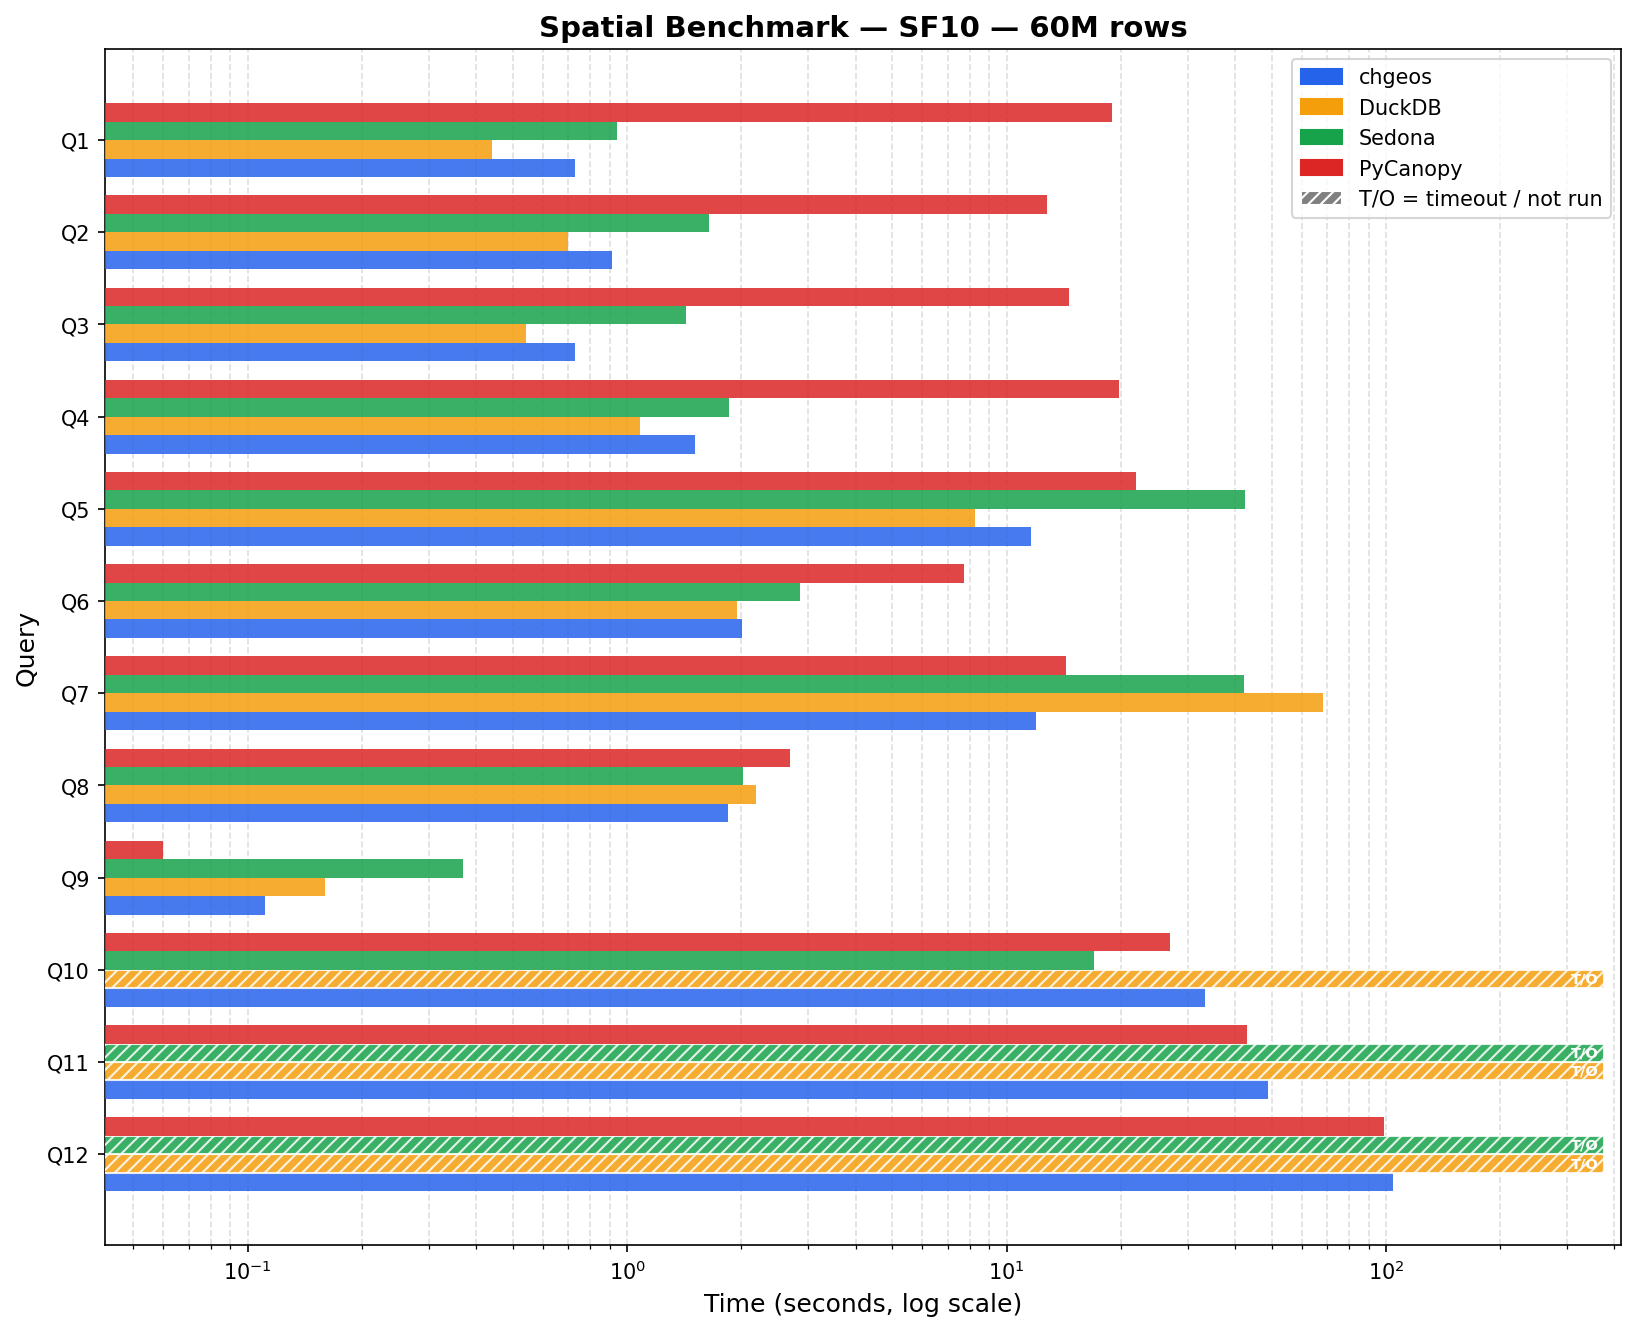
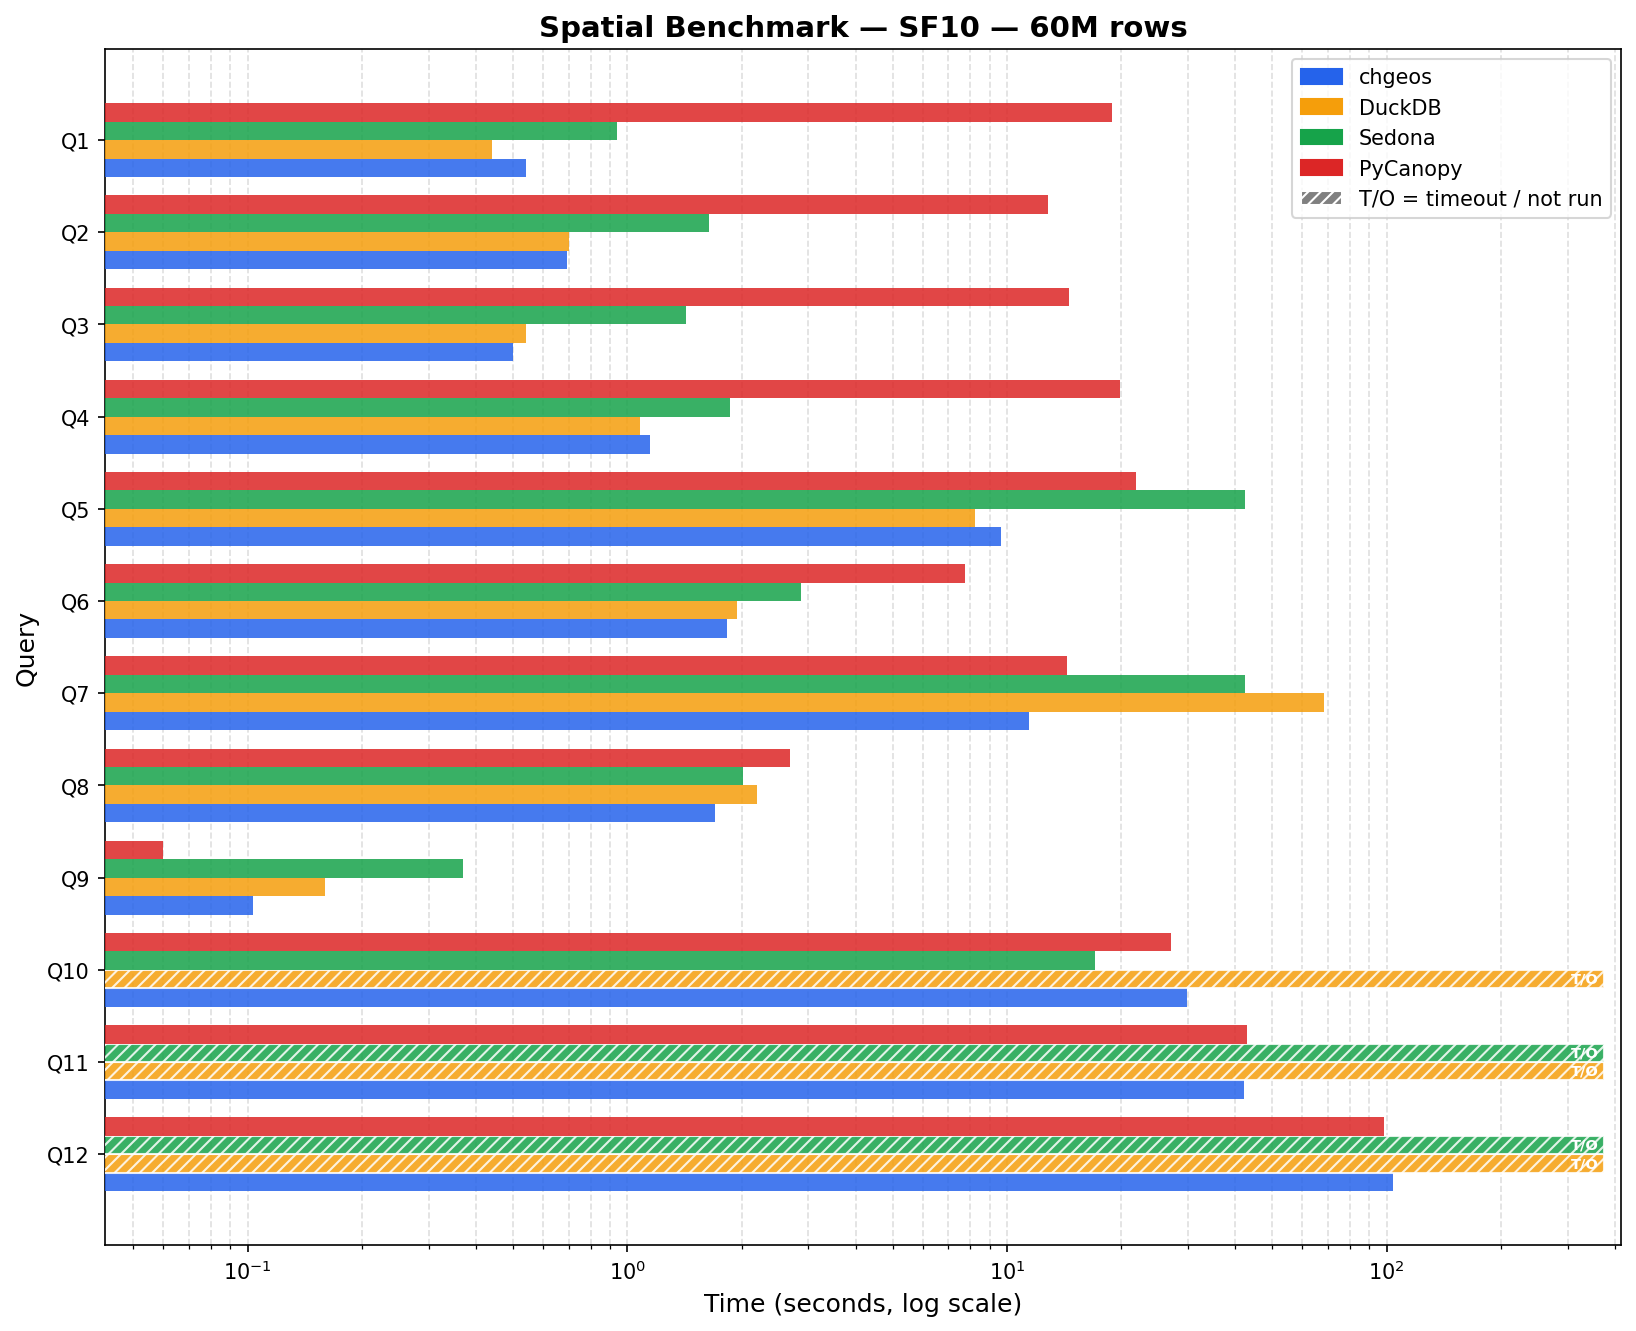
Update SF10 benchmark column with quiet-box re-measurement
The previous SF10 numbers were taken on a loaded machine and carried
+20-25% of Parquet-I/O noise on the small queries. This run is clean:
Q5 11.609 -> 9.625 s, Q7 11.992 -> 11.403 s, Q10 33.376 -> 29.784 s,
Q11 48.888 -> 42.129 s, Q12 104.282 -> 103.830 s.

Winners recomputed against the 5% tie band. Q3 and Q6 flip to chgeos,
Q2 and Q11 become ties, so the tally goes from chgeos 2 / DuckDB 5 /
Sedona 1 / PyCanopy 3 / ties 1 to chgeos 4 / DuckDB 3 / Sedona 1 /
PyCanopy 2 / ties 2. The caveat on sub-2-second SF10 rows stays -- the
same query moved 0.540 to 0.728 s across runs on one machine the same
day, and that is wider than most of the margins between engines there.

The Q10 +12% flagged in the prior commit was run-to-run width, not a
regression: 27.966-31.389 s here against a 27.314 s May baseline.

diff --git a/BENCHMARK.md b/BENCHMARK.md
@@ -42,24 +42,24 @@ Apache Sedona (SedonaDB) and PyCanopy on the spatial benchmark suite.
 
 | Query | Description                        | chgeos    | DuckDB   | Sedona   | PyCanopy | Winner   |
 |-------|------------------------------------|-----------|----------|----------|----------|----------|
-| Q1    | Point-in-radius filter             | 0.728 s   | 0.44 s   | 0.94 s   | 18.93 s  | DuckDB   |
-| Q2    | Count trips in county polygon      | 0.915 s   | 0.70 s   | 1.64 s   | 12.81 s  | DuckDB   |
-| Q3    | Monthly stats in bbox+buffer       | 0.731 s   | 0.54 s   | 1.43 s   | 14.59 s  | DuckDB   |
-| Q4    | Zone distribution (top-1000 tips)  | 1.513 s   | 1.08 s   | 1.86 s   | 19.80 s  | DuckDB   |
-| Q5    | Convex hull area per customer/month| 11.609 s  | 8.24 s   | 42.43 s  | 21.93 s  | DuckDB   |
-| Q6    | Zone stats for bbox-intersect zones| 2.009 s   | 1.95 s   | 2.86 s   | 7.74 s   | Tie      |
-| Q7    | Detour ratio (all trips)           | 11.992 s  | 68.31 s  | 42.28 s  | 14.39 s  | chgeos   |
-| Q8    | Nearby pickups per building        | 1.843 s   | 2.19 s   | 2.02 s   | 2.69 s   | chgeos   |
-| Q9    | Building conflation via IoU        | 0.111 s   | 0.16 s   | 0.37 s   | 0.06 s   | PyCanopy |
-| Q10   | Zone avg duration/distance         | 33.376 s  | TIMEOUT  | 17.02 s  | 27.05 s  | Sedona   |
-| Q11   | Cross-zone trip count              | 48.888 s  | TIMEOUT  | TIMEOUT  | 42.97 s  | PyCanopy |
-| Q12   | 5 nearest buildings per trip (kNN) | 104.282 s | TIMEOUT  | TIMEOUT  | 98.60 s  | PyCanopy |
+| Q1    | Point-in-radius filter             | 0.540 s   | 0.44 s   | 0.94 s   | 18.93 s  | DuckDB   |
+| Q2    | Count trips in county polygon      | 0.694 s   | 0.70 s   | 1.64 s   | 12.81 s  | Tie      |
+| Q3    | Monthly stats in bbox+buffer       | 0.499 s   | 0.54 s   | 1.43 s   | 14.59 s  | chgeos   |
+| Q4    | Zone distribution (top-1000 tips)  | 1.150 s   | 1.08 s   | 1.86 s   | 19.80 s  | DuckDB   |
+| Q5    | Convex hull area per customer/month| 9.625 s   | 8.24 s   | 42.43 s  | 21.93 s  | DuckDB   |
+| Q6    | Zone stats for bbox-intersect zones| 1.832 s   | 1.95 s   | 2.86 s   | 7.74 s   | chgeos   |
+| Q7    | Detour ratio (all trips)           | 11.403 s  | 68.31 s  | 42.28 s  | 14.39 s  | chgeos   |
+| Q8    | Nearby pickups per building        | 1.706 s   | 2.19 s   | 2.02 s   | 2.69 s   | chgeos   |
+| Q9    | Building conflation via IoU        | 0.103 s   | 0.16 s   | 0.37 s   | 0.06 s   | PyCanopy |
+| Q10   | Zone avg duration/distance         | 29.784 s  | TIMEOUT  | 17.02 s  | 27.05 s  | Sedona   |
+| Q11   | Cross-zone trip count              | 42.129 s  | TIMEOUT  | TIMEOUT  | 42.97 s  | Tie      |
+| Q12   | 5 nearest buildings per trip (kNN) | 103.830 s | TIMEOUT  | TIMEOUT  | 98.60 s  | PyCanopy |
 
-**SF10 wins — chgeos: 2, DuckDB: 5, Sedona: 1, PyCanopy: 3, Ties: 1**
+**SF10 wins — chgeos: 4, DuckDB: 3, Sedona: 1, PyCanopy: 2, Ties: 2**
 
 The SF10 chgeos column was re-measured on 2026-08-06; competitor columns are from
 2026-05-06 (DuckDB, Sedona) and 2026-07-29 (PyCanopy). Q1–Q4 are Parquet-I/O bound and
-drift ±25% with machine state — two chgeos runs an hour apart the same day gave Q1 0.550 s
+drift ±25% with machine state — three chgeos runs the same day gave Q1 0.540 s, 0.550 s
 and 0.728 s. Treat the sub-2-second SF10 rows as indicative, not as a ranking.
 
 ![SF10 benchmark](sf10.png)
@@ -74,30 +74,31 @@ ORDER BY merge. Without it, ClickHouse defers the function to the single-threade
 post-sort stage, causing ~7× slowdown. Q5 also needs `max_bytes_ratio_before_external_group_by=0`
 at SF10: it accumulates ~21 GiB across 3.1M groups, and the default ratio spills to disk at
 0.5 × `max_server_memory_usage`, costing ~3.5 s. DuckDB leads at SF10 (8.24 s vs chgeos
-11.6 s); PyCanopy is 22 s and Sedona 4× slower (42 s).
+9.6 s); PyCanopy is 22 s and Sedona 4× slower (42 s).
 
 **Q7 (detour ratio):** Scans all rows computing `st_length(st_makeline(...))` with no
 spatial join. WasmChainFusionPass fuses `st_makeline → st_length` into a single WASM
 call, eliminating the intermediate WKB round-trip. chgeos leads DuckDB (68 s) and
-Sedona (42 s) by a wide margin at SF10 (12.0 s); PyCanopy is the closest competitor (14.4 s),
+Sedona (42 s) by a wide margin at SF10 (11.4 s); PyCanopy is the closest competitor (14.4 s),
 and at SF1 the two are within 2% of each other.
 
 **Q9 (building IoU):** Self-join of ~20K buildings. SpatialRTreeJoin evaluates
 non-spatial ON conditions (e.g. `b1.id < b2.id`) as a pre-filter before the spatial
 predicate, cutting candidate pairs dramatically. chgeos leads DuckDB and Sedona at both
-scales, but PyCanopy is faster at SF10 (0.06 s vs 0.104 s).
+scales, but PyCanopy is faster at SF10 (0.06 s vs 0.103 s).
 
-**Q10 at SF10:** Sedona wins (17 s vs chgeos 33 s and PyCanopy 27 s, DuckDB TIMEOUT).
+**Q10 at SF10:** Sedona wins (17 s vs chgeos 30 s and PyCanopy 27 s, DuckDB TIMEOUT).
 Sedona's DataFusion task-parallel build/probe model handles the large trip build side
 more efficiently. DuckDB cannot complete within 120 s.
 
 **Q11 at SF10:** Sedona times out because it materializes the intermediate
 trip×pickup_zone result before applying the second zone join, causing memory explosion
 at SF10. chgeos handles both zone joins in a single `SpatialRTreeDoubleJoin` pass
-(48.9 s vs TIMEOUT for both DuckDB and Sedona). PyCanopy also completes, at 43.0 s.
+(42.1 s vs TIMEOUT for both DuckDB and Sedona). PyCanopy also completes, at 43.0 s — a tie
+with chgeos.
 
 **Q12 (kNN):** WASM `st_knn` uses a static 2-D centroid k-d tree with branch-and-bound
-search. Both DuckDB and Sedona time out at SF10; chgeos completes in 104 s. PyCanopy
+search. Both DuckDB and Sedona time out at SF10; chgeos completes in 103.8 s. PyCanopy
 is the fastest engine on this query at both scales (5.7 s at SF1, 98.6 s at SF10) —
 at SF1 chgeos is 1.9× slower, but that gap is a sort bottleneck rather than `st_knn`
 itself, which accounts for well under a second of the total. At SF10 the two are within
